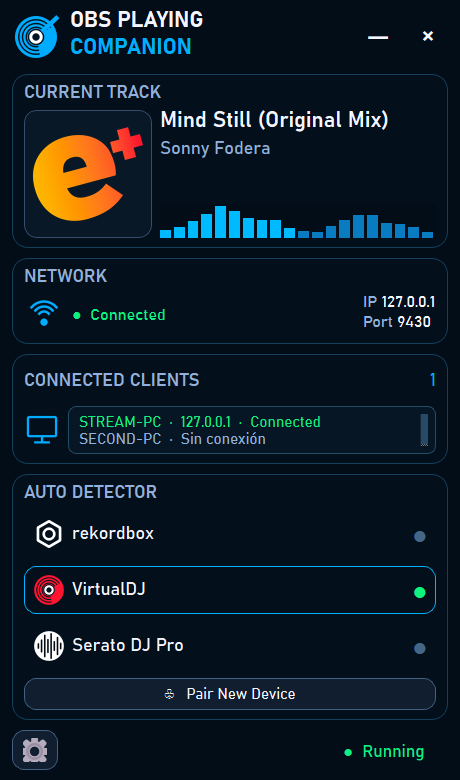
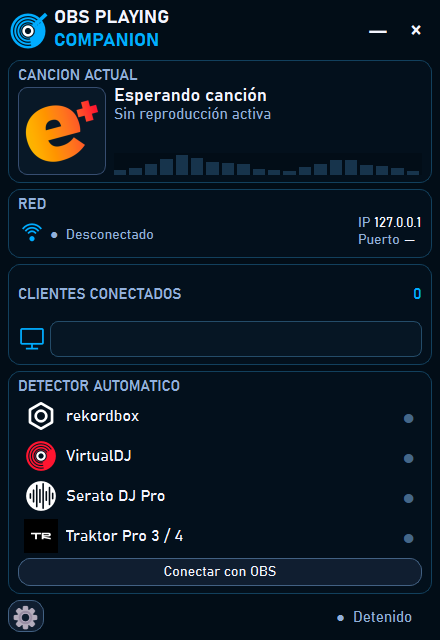
Update Companion preview to the compact 1.0.0 interface

Changed region(s): [[0.0, 0.0, 0.975, 1.0], [0.7977, 0.0312, 0.8864, 0.0625], [0.9159, 0.0312, 0.975, 0.0625]]

diff --git a/README.md b/README.md
@@ -20,9 +20,9 @@ Traktor MASTER representa el maestro de tempo, no una medición del audio audibl
 
 *Promotional illustration of a now-playing overlay in OBS.*
 
-<img src="docs/images/companion-demo.png" alt="OBS Playing Companion with demonstration track and local connection" width="440">
+<img src="docs/images/companion-demo.png" alt="OBS Playing Companion 1.0.0 compact interface" width="440">
 
-*Companion screenshot with demonstration data and a local loopback connection.*
+*Actual Companion 1.0.0 compact interface, idle and disconnected.*
 
 ## Instalación
 
